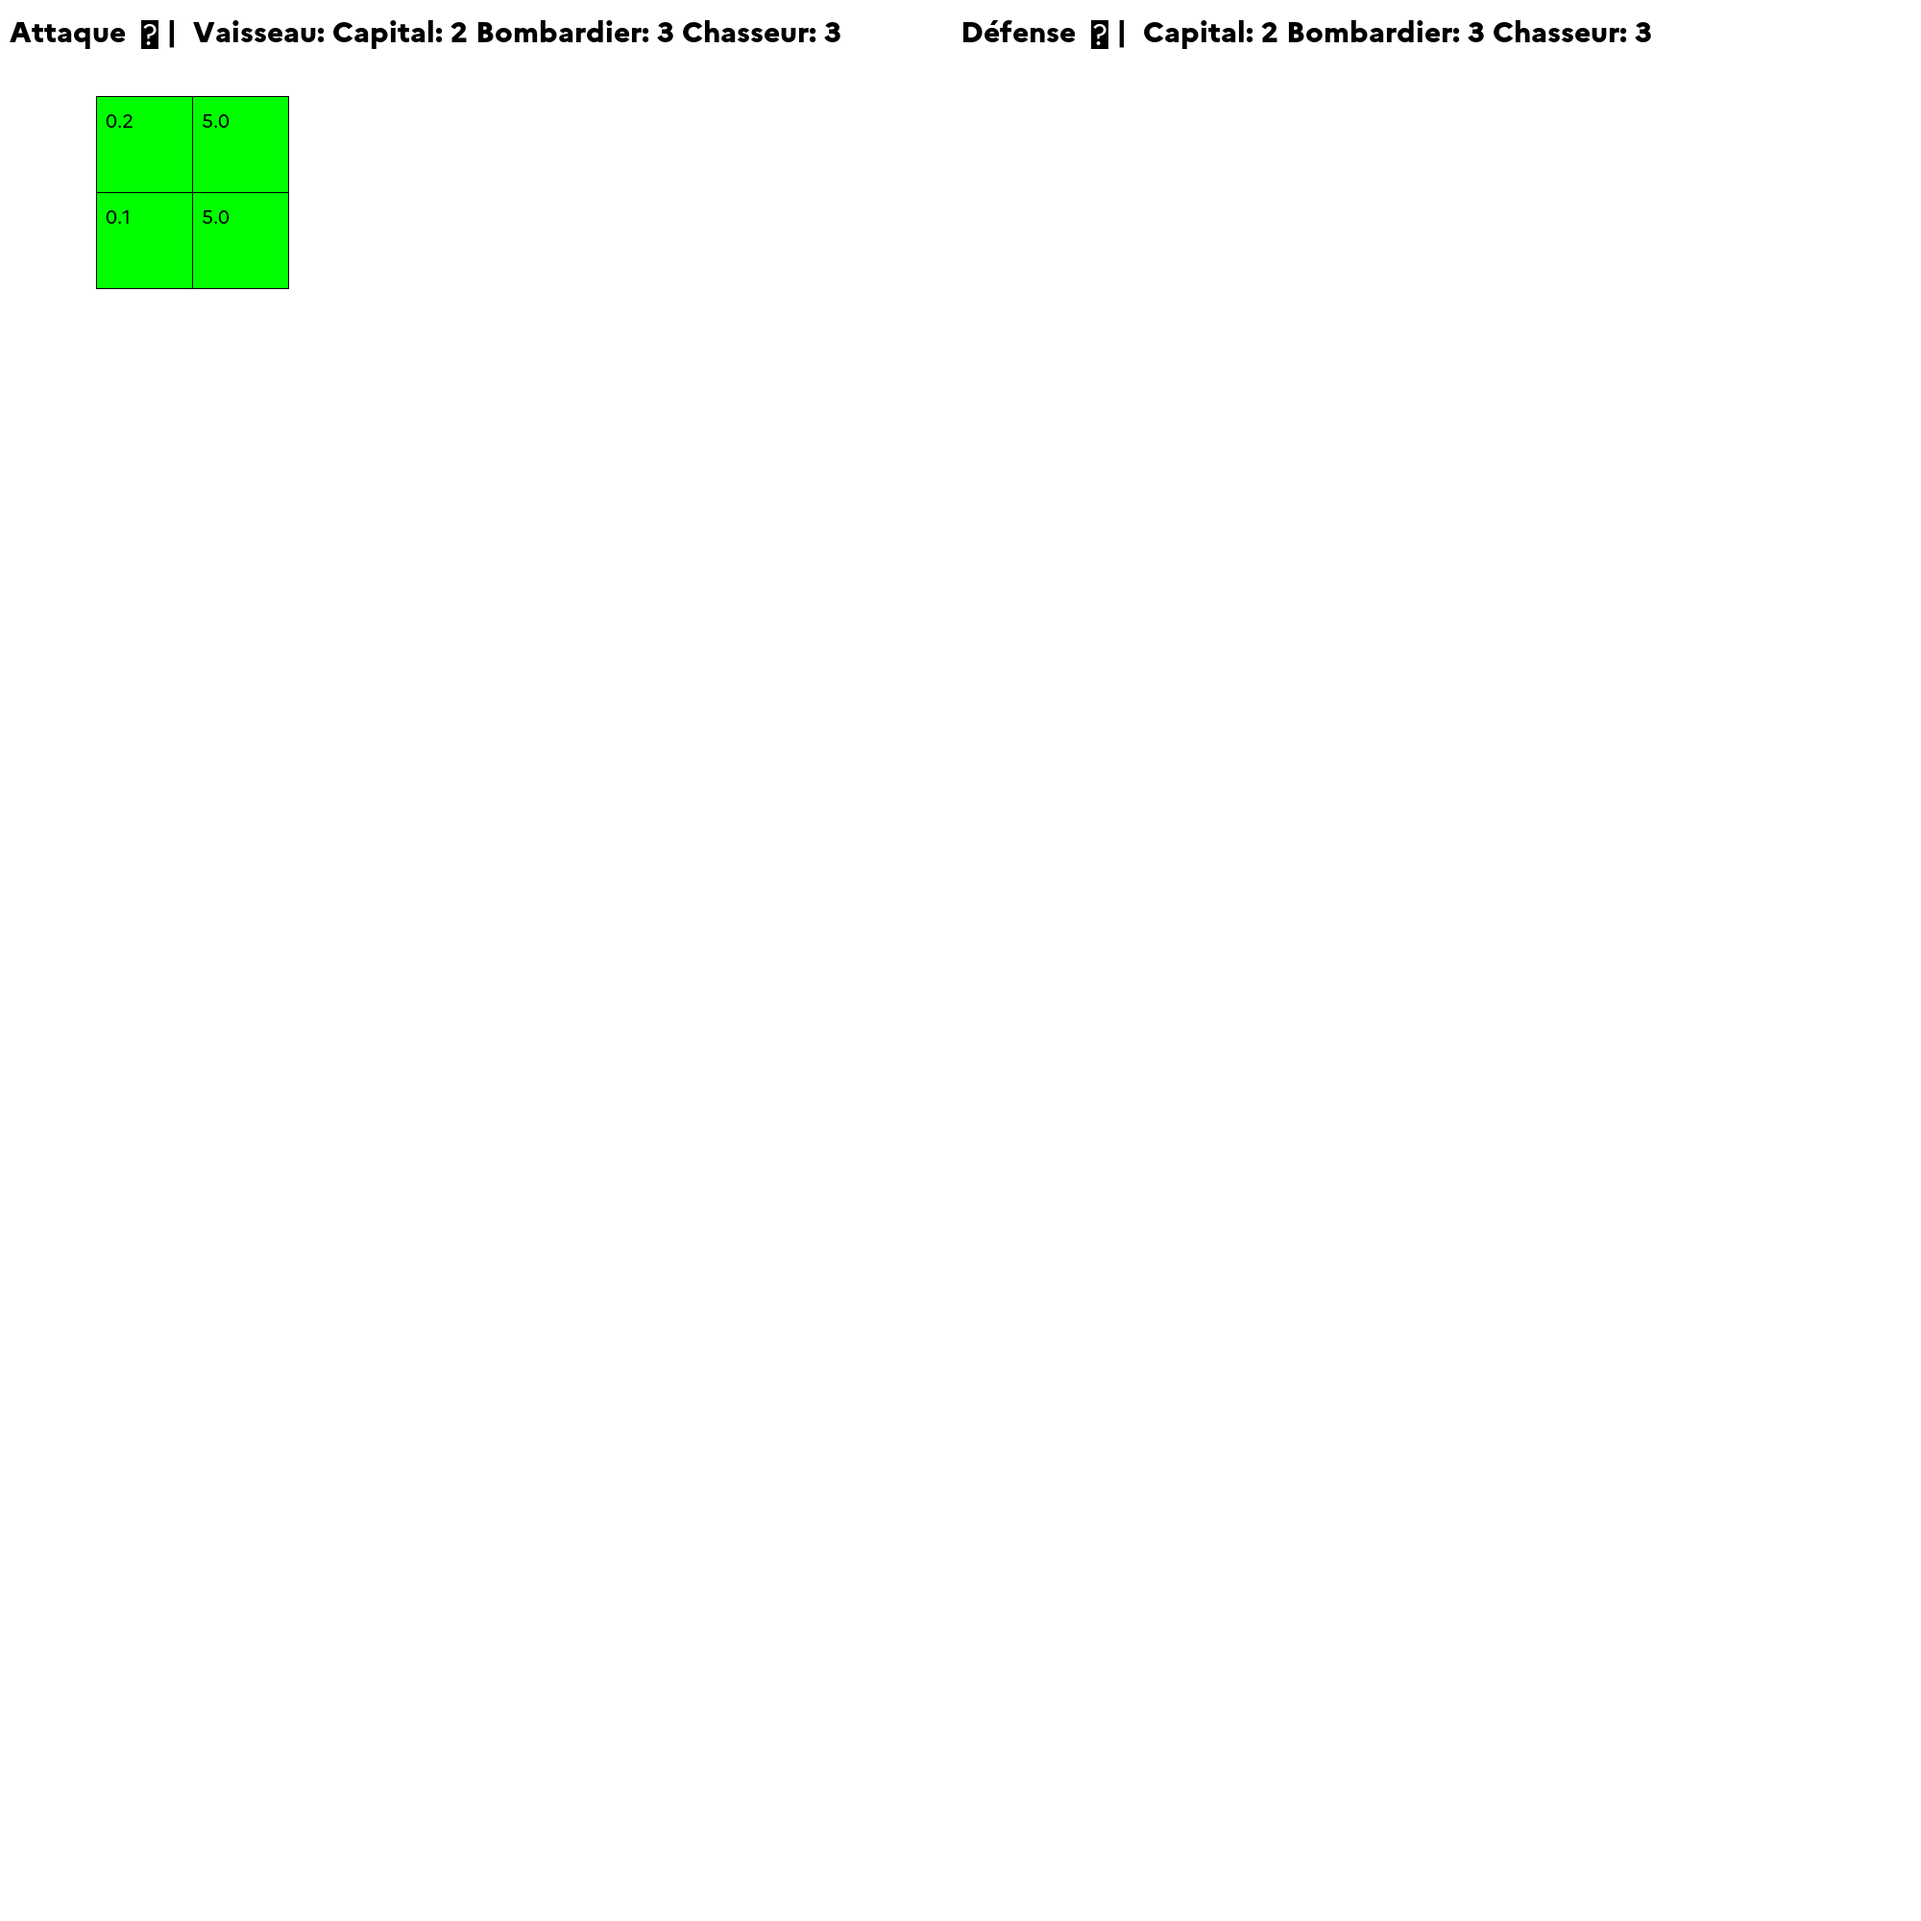
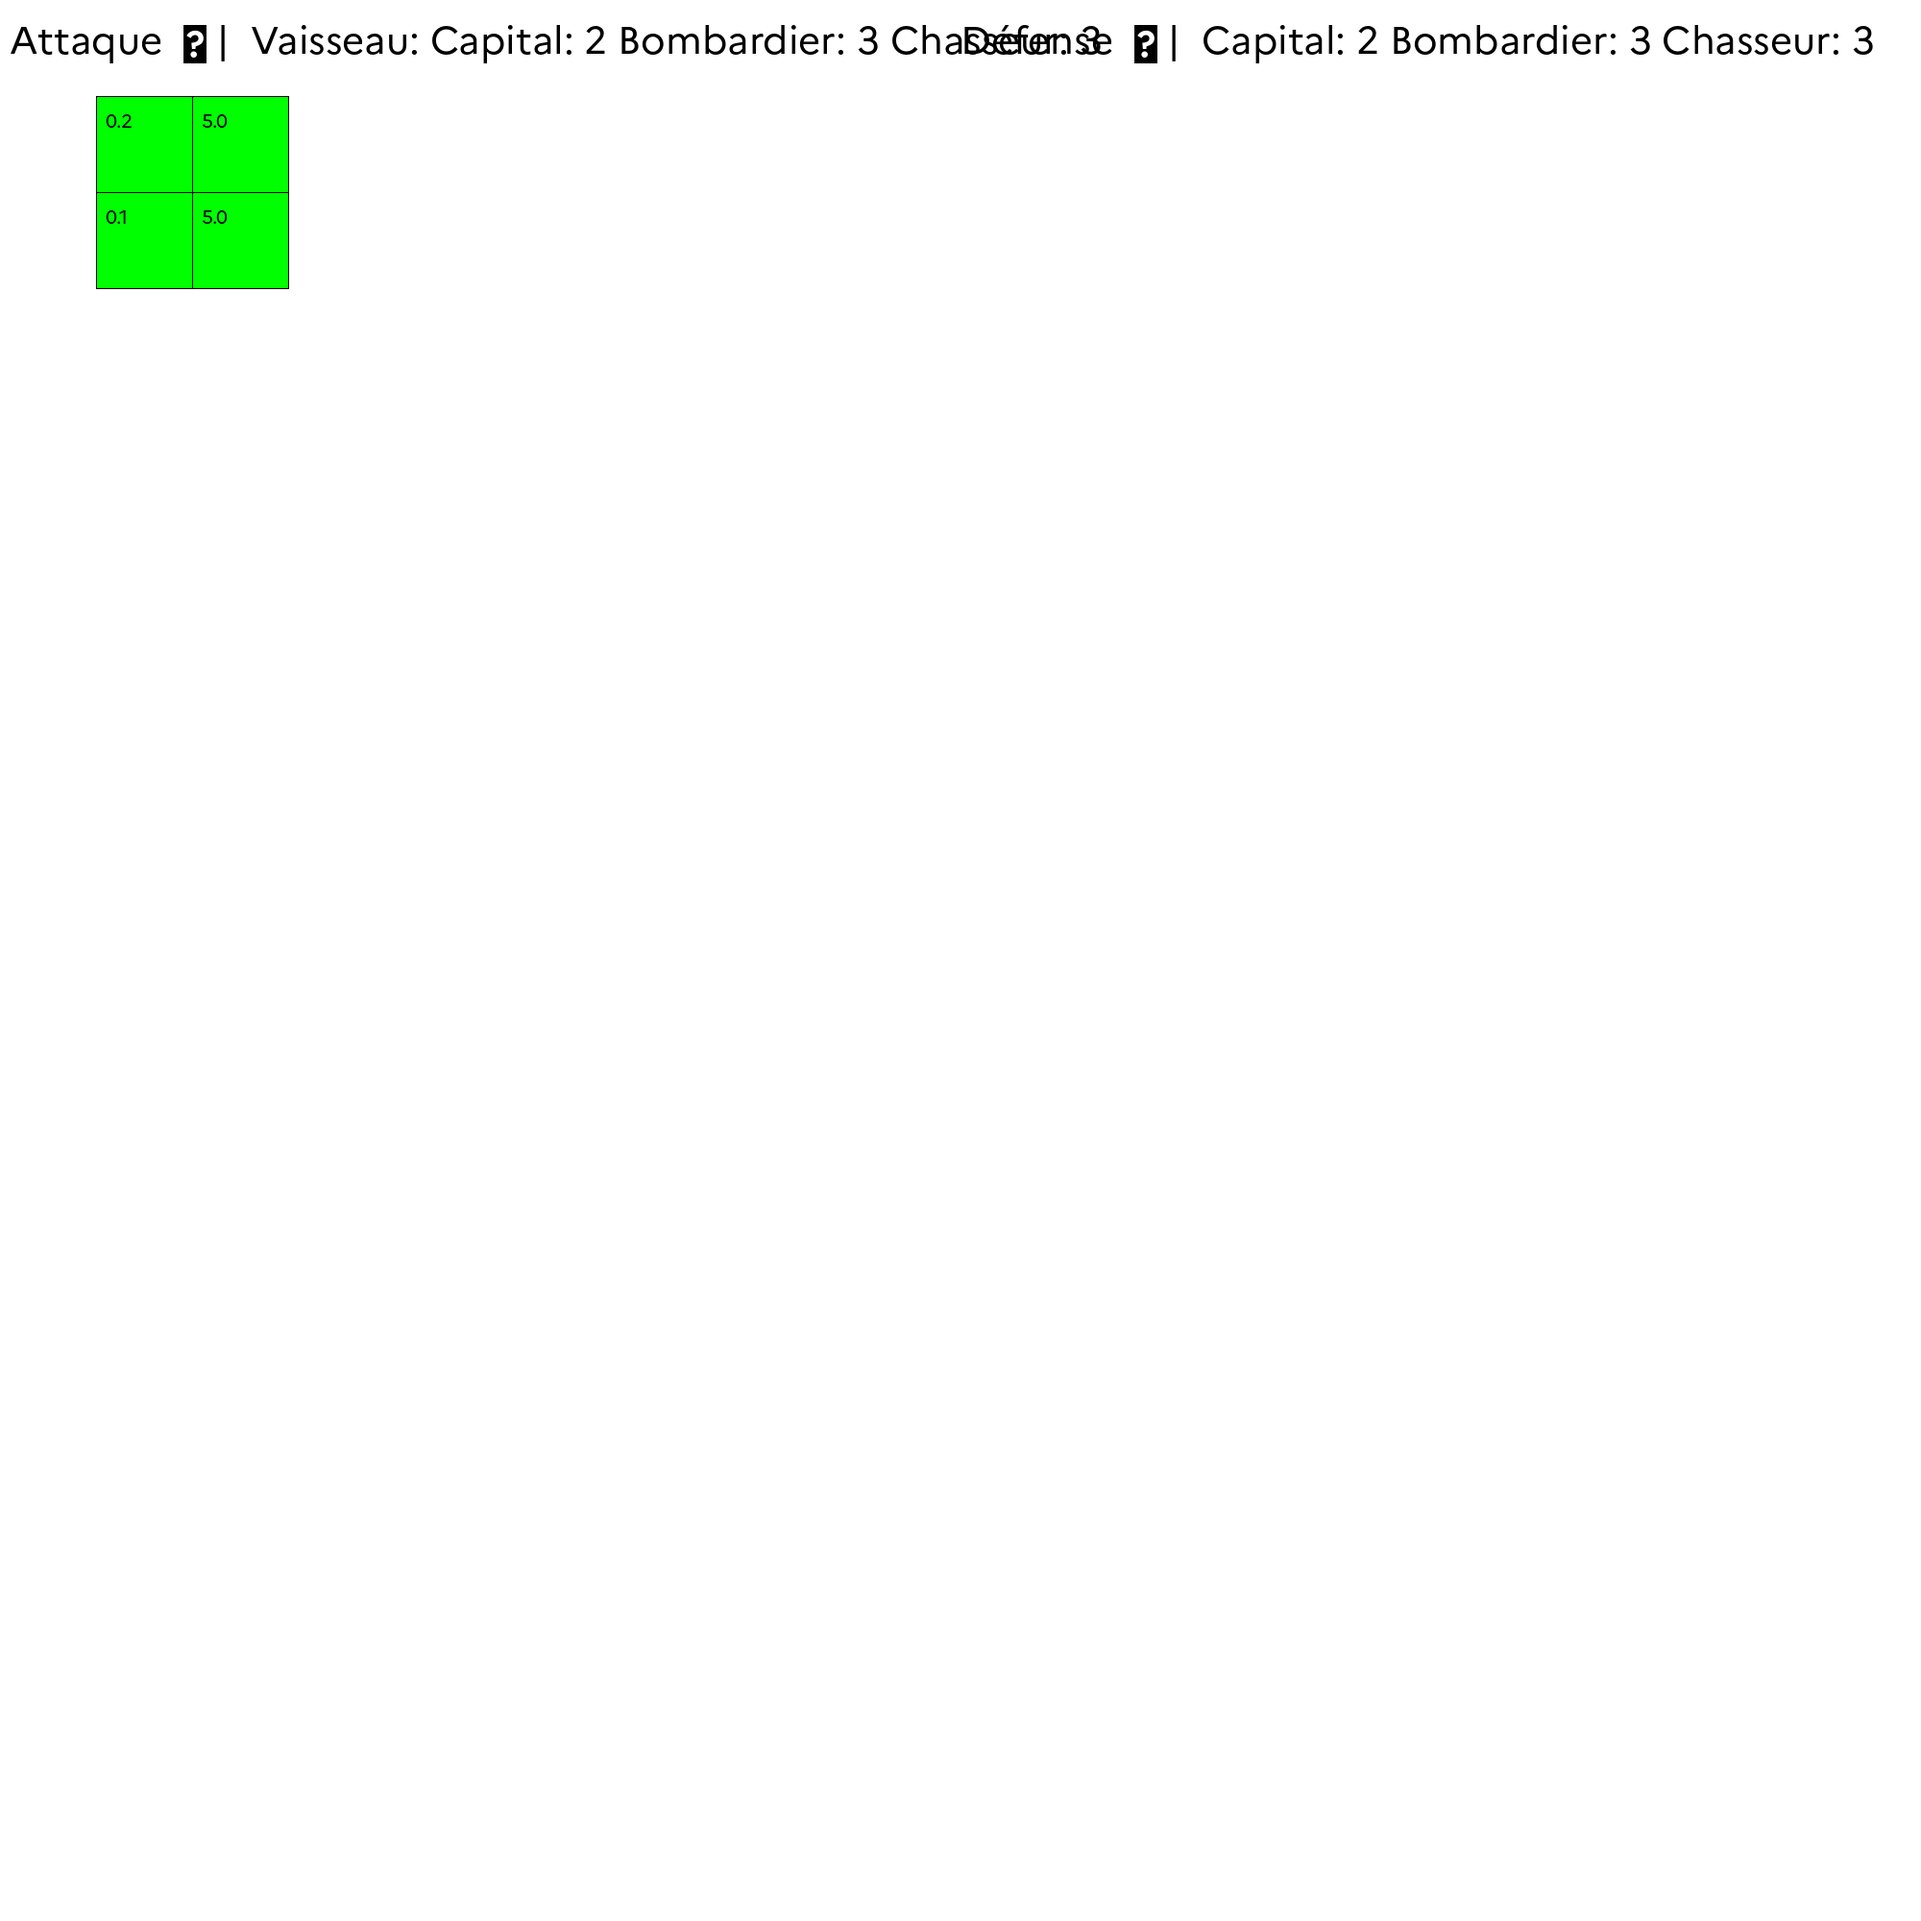
small change

Changed region(s): [[0.0, 0.0, 0.961, 0.031]]

diff --git a/pilo/pilo.py b/pilo/pilo.py
@@ -3,14 +3,17 @@ from PIL import ImageFont, Image, ImageDraw
 import sys
 dirName= os.path.dirname(os.path.abspath(__file__))
 sys.path.append(f'{dirName}/../')
-from classes import tableau, Configuration
+from classes import Tableau, Configuration
 
-config = Configuration([2,3,3],[2,3,3],True,50,50)
-tab = tableau(config,[[0.2,5.0],[0.1,5.0]])
+config = Configuration([2,3,3],[2,3,3],True)
+tab = Tableau(config,[[0.2,5.0],[0.1,5.0]])
 im = Image.new("RGB", (1000*len(tab.liste_proba), 1000*len(tab.liste_proba)), "white")
+
 titleFont = ImageFont.truetype(f"{dirName}/Marianne/Marianne-ExtraBold.otf",
 size=30)
 generalFont = ImageFont.truetype(f"{dirName}/Marianne/Marianne-Regular.otf", size=20)
+bigGeneralFont = ImageFont.truetype(f"{dirName}/Marianne/Marianne-Regular.otf", size=40)
+
 draw = ImageDraw.Draw(im)
 
 def drawTable(tablexpos,tableypos,valueList):
@@ -45,8 +48,8 @@ def drawTable(tablexpos,tableypos,valueList):
             ypos = tableypos + i * hauteurCellule + margeInterieure
             draw.text((xpos, ypos), str(round(column, 3)), fill=(0,0,0), font=generalFont)
 
-draw.multiline_text((10, 10), f"Attaque  👿 |  Vaisseau: Capital: {tab.config.vaisseaux_at[0]} Bombardier: {tab.config.vaisseaux_at[1]} Chasseur: {tab.config.vaisseaux_at[2]}", font=titleFont, fill=(0, 0, 0))
-draw.multiline_text((1000, 10), f"Défense  🤩 |  Capital: {tab.config.vaisseaux_de[0]} Bombardier: {tab.config.vaisseaux_de[1]} Chasseur: {tab.config.vaisseaux_de[1]}", font=titleFont, fill=(0, 0, 0))
+draw.multiline_text((10, 10), f"Attaque  👿 |  Vaisseau: Capital: {tab.config.vaisseaux_att[0]} Bombardier: {tab.config.vaisseaux_att[1]} Chasseur: {tab.config.vaisseaux_att[2]}", font=bigGeneralFont, fill=(0, 0, 0))
+draw.multiline_text((1000, 10), f"Défense  🤩 |  Capital: {tab.config.vaisseaux_def[0]} Bombardier: {tab.config.vaisseaux_def[1]} Chasseur: {tab.config.vaisseaux_def[1]}", font=bigGeneralFont, fill=(0, 0, 0))
 
 drawTable(100,100,tab.liste_proba)
 
